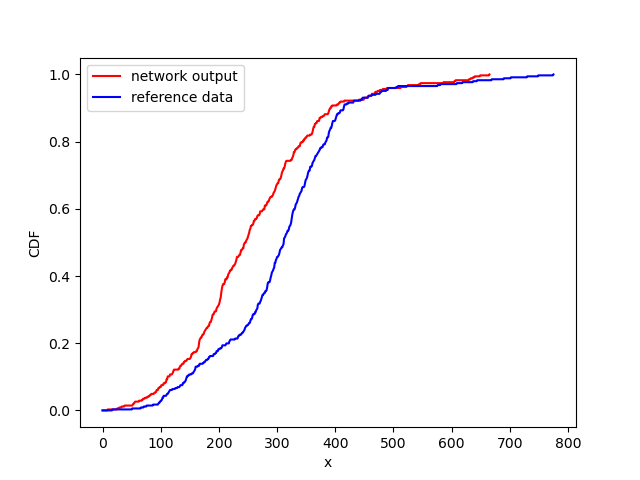
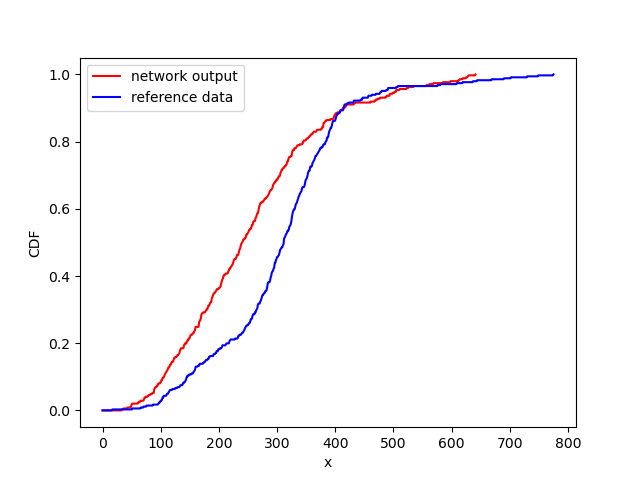
random png, xlsx

diff --git a/NeuralNetwork.py b/NeuralNetwork.py
@@ -81,37 +81,37 @@ if __name__ == '__main__':
 
     # network.find_lr("cpu", train)
 
-    network.perform_training(400, train)
+    network.perform_training(200, train)
 
-    for i in range(1, 4):
-        test_data.clear()
-        test_data.import_file(
-            './dane/pomiary/F' + str(test_data.audience_no) + '/f' + str(test_data.audience_no) + '_' + str(
-                i) + 'p.xlsx')
-        test, ref_test = test_data.get_torch_dataset()
-        out = network.predict(test)
-        dist = Errors.calc_distribution(ref_test, out)
-        dist_org = Errors.calc_distribution(ref_test, test)
-        save_to_excel(dist, 'distribution_f' + str(test_data.audience_no) + '_' + str(i) + 'p.xlsx')
-        Animation.distribution_plot(dist, dist_org,
-                                    'distribution_f' + str(test_data.audience_no) + '_' + str(i) + 'p.png')
-        Animation.track_plot(test, ref_test, out,
-                             'track_f' + str(test_data.audience_no) + '_' + str(i) + 'p.png')
-
-    for i in range(1, 4):
-        test_data.clear()
-        test_data.import_file(
-            './dane/pomiary/F' + str(test_data.audience_no) + '/f' + str(test_data.audience_no) + '_' + str(
-                i) + 'z.xlsx')
-        test, ref_test = test_data.get_torch_dataset()
-        out = network.predict(test)
-        dist = Errors.calc_distribution(ref_test, out)
-        dist_org = Errors.calc_distribution(ref_test, test)
-        save_to_excel(dist, 'distribution_f' + str(test_data.audience_no) + '_' + str(i) + 'z.xlsx')
-        Animation.distribution_plot(dist, dist_org,
-                                    'distribution_f' + str(test_data.audience_no) + '_' + str(i) + 'z.png')
-        Animation.track_plot(test, ref_test, out,
-                             'track_f' + str(test_data.audience_no) + '_' + str(i) + 'z.png')
+    # for i in range(1, 4):
+    #     test_data.clear()
+    #     test_data.import_file(
+    #         './dane/pomiary/F' + str(test_data.audience_no) + '/f' + str(test_data.audience_no) + '_' + str(
+    #             i) + 'p.xlsx')
+    #     test, ref_test = test_data.get_torch_dataset()
+    #     out = network.predict(test)
+    #     dist = Errors.calc_distribution(ref_test, out)
+    #     dist_org = Errors.calc_distribution(ref_test, test)
+    #     save_to_excel(dist, 'distribution_f' + str(test_data.audience_no) + '_' + str(i) + 'p.xlsx')
+    #     Animation.distribution_plot(dist, dist_org,
+    #                                 'distribution_f' + str(test_data.audience_no) + '_' + str(i) + 'p.png')
+    #     Animation.track_plot(test, ref_test, out,
+    #                          'track_f' + str(test_data.audience_no) + '_' + str(i) + 'p.png')
+    #
+    # for i in range(1, 4):
+    #     test_data.clear()
+    #     test_data.import_file(
+    #         './dane/pomiary/F' + str(test_data.audience_no) + '/f' + str(test_data.audience_no) + '_' + str(
+    #             i) + 'z.xlsx')
+    #     test, ref_test = test_data.get_torch_dataset()
+    #     out = network.predict(test)
+    #     dist = Errors.calc_distribution(ref_test, out)
+    #     dist_org = Errors.calc_distribution(ref_test, test)
+    #     save_to_excel(dist, 'distribution_f' + str(test_data.audience_no) + '_' + str(i) + 'z.xlsx')
+    #     Animation.distribution_plot(dist, dist_org,
+    #                                 'distribution_f' + str(test_data.audience_no) + '_' + str(i) + 'z.png')
+    #     Animation.track_plot(test, ref_test, out,
+    #                          'track_f' + str(test_data.audience_no) + '_' + str(i) + 'z.png')
 
     for i in range(1, 3):
         test_data.clear()

diff --git a/DatasetUWB.py b/DatasetUWB.py
@@ -31,6 +31,12 @@ class DatasetUWD:
                 i) + ".xlsx"
             self.import_file(file_path, err_tolerance=err_tolerance)
 
+    def import_random_data(self, err_tolerance=500):
+        for i in range(1, 3):
+            file_path = "./dane/pomiary/F" + str(self.audience_no) + "/f" + str(self.audience_no) + "_random_" + str(
+                i) + "p.xlsx"
+            self.import_file(file_path, err_tolerance=err_tolerance)
+
     def get_torch_dataset(self):
         return torch.from_numpy(np.array(self.coords).astype(np.float32)), torch.from_numpy(
             np.array(self.reference).astype(np.float32))
@@ -39,7 +45,7 @@ class DatasetUWD:
         coords = torch.tensor(self.coords, dtype=torch.float)
         reference = torch.tensor(self.reference, dtype=torch.float)
         dataset = TensorDataset(coords, reference)
-        dataloader = DataLoader(dataset, shuffle=True, batch_size=32)
+        dataloader = DataLoader(dataset, shuffle=True, batch_size=16)
         return dataloader
 
     def clear(self):
